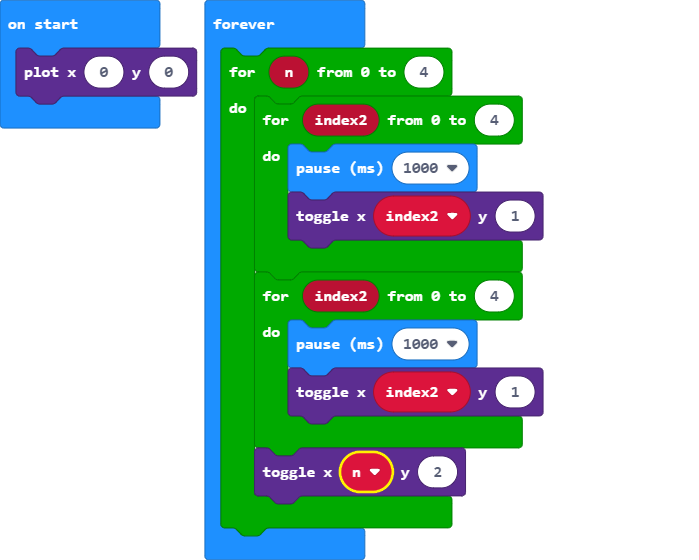
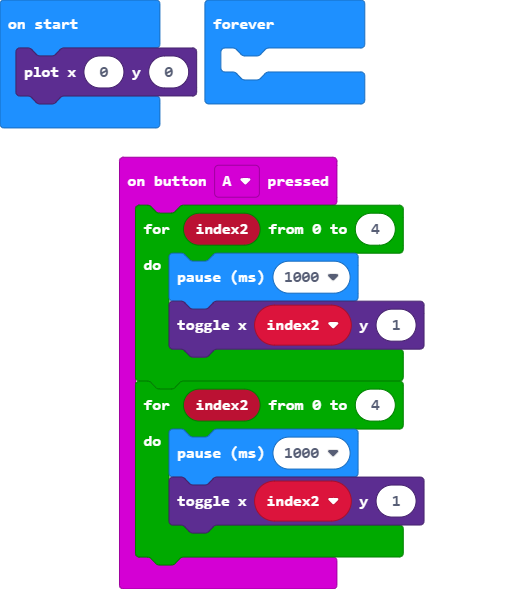
Update pxt.json, main.blocks, main.ts

diff --git a/main.ts b/main.ts
@@ -1,14 +1,14 @@
+input.onButtonPressed(Button.A, function () {
+    for (let index2 = 0; index2 <= 4; index2++) {
+        basic.pause(1000)
+        led.toggle(index2, 1)
+    }
+    for (let index2 = 0; index2 <= 4; index2++) {
+        basic.pause(1000)
+        led.toggle(index2, 1)
+    }
+})
 led.plot(0, 0)
 basic.forever(function () {
-    for (let n = 0; n <= 4; n++) {
-        for (let index2 = 0; index2 <= 4; index2++) {
-            basic.pause(1000)
-            led.toggle(index2, 1)
-        }
-        for (let index2 = 0; index2 <= 4; index2++) {
-            basic.pause(1000)
-            led.toggle(index2, 1)
-        }
-        led.toggle(n, 2)
-    }
+	
 })
